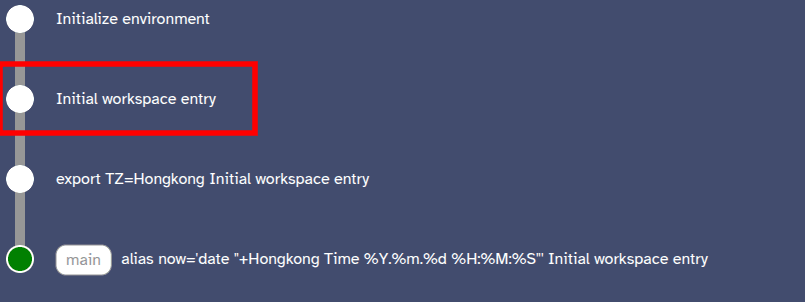
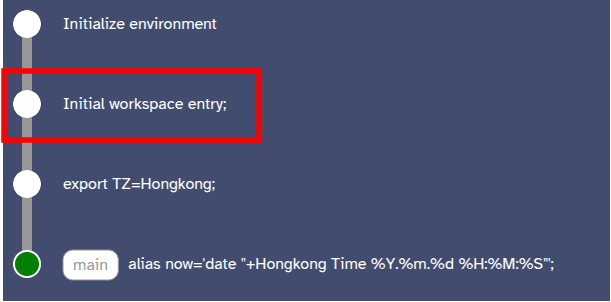
add prepared

Changed region(s): [[0.0, 0.0, 1.0, 1.0]]

diff --git a/examples/1.hello_world/README.md b/examples/1.hello_world/README.md
@@ -8,7 +8,8 @@
 4. In the shell, run `export TZ=Hongkong` and then `alias now='date "+Hongkong Time %Y.%m.%d %H:%M:%S"'`. These should show as two commits on the frontend.
 5. In the frontend, switch to a prior commit by clicking the initial workspace entry commit as indicated, and selecting "jump to commit"
    ![](./res/branch.png)
-6. In the shell, run `export TZ=America/New_York` and `alias now=date`
+6. In the shell, run `export TZ=America/New_York;alias now=date`
 7. In the frontend, jump between the "tips" of the two branches, and run the `now` command
+  ![](./res/branch2.png)
   - In the initial branch, `now` should print something like: `Hongkong Time 2025.04.22 02:48:46`
   - In the second branch, `now` should print something like `Tue Apr 22 02:47:47 America 2025`
